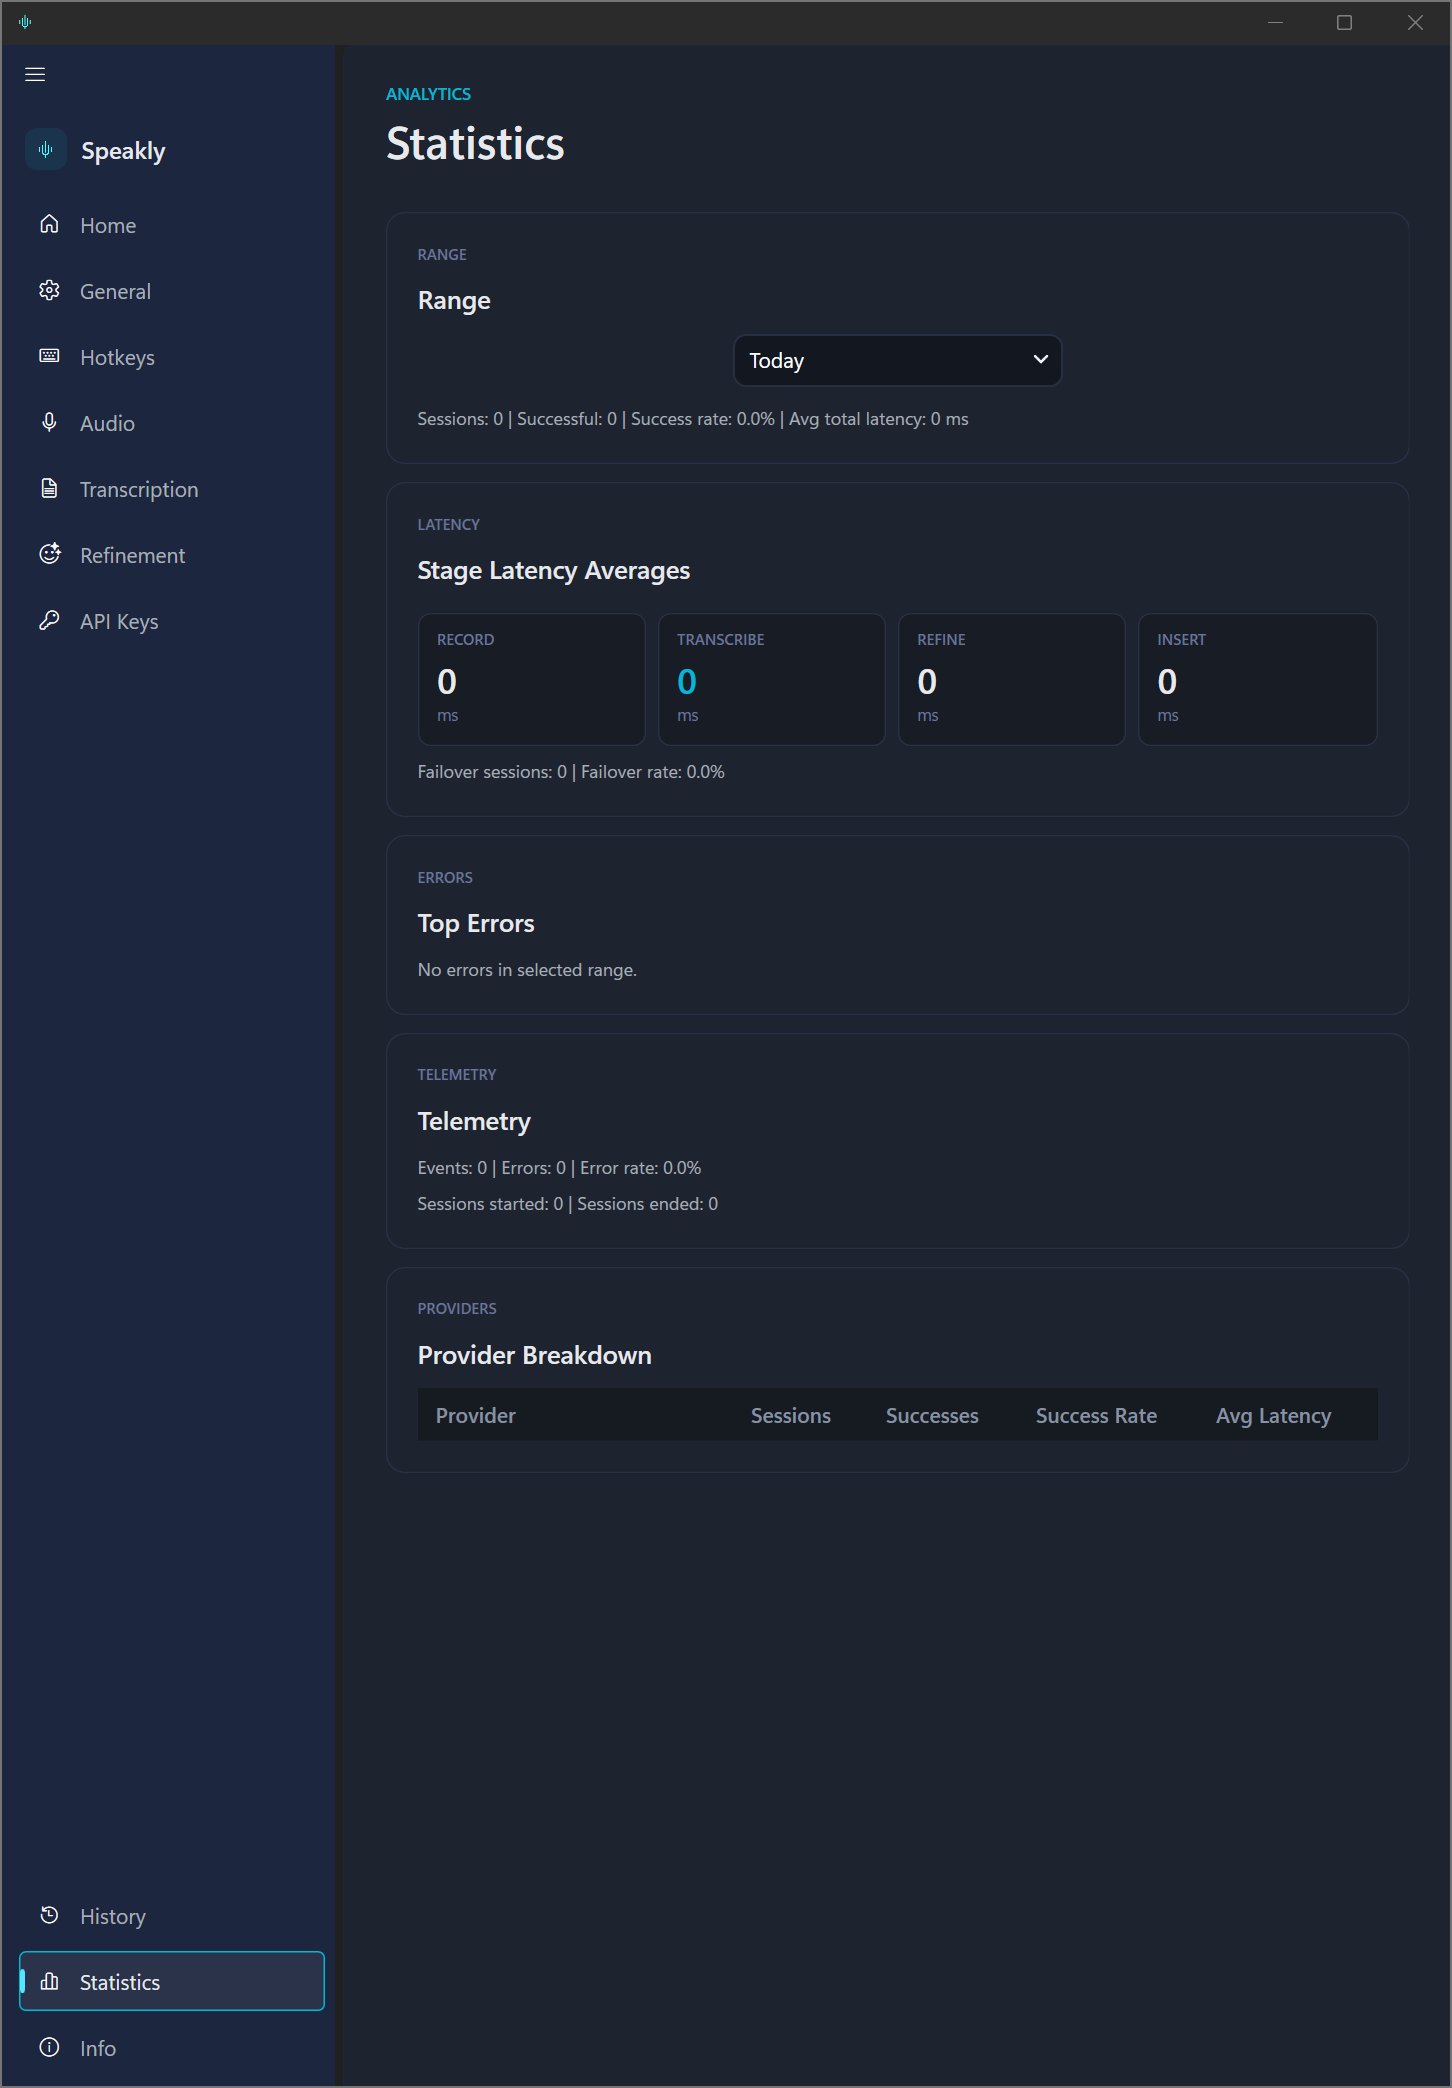
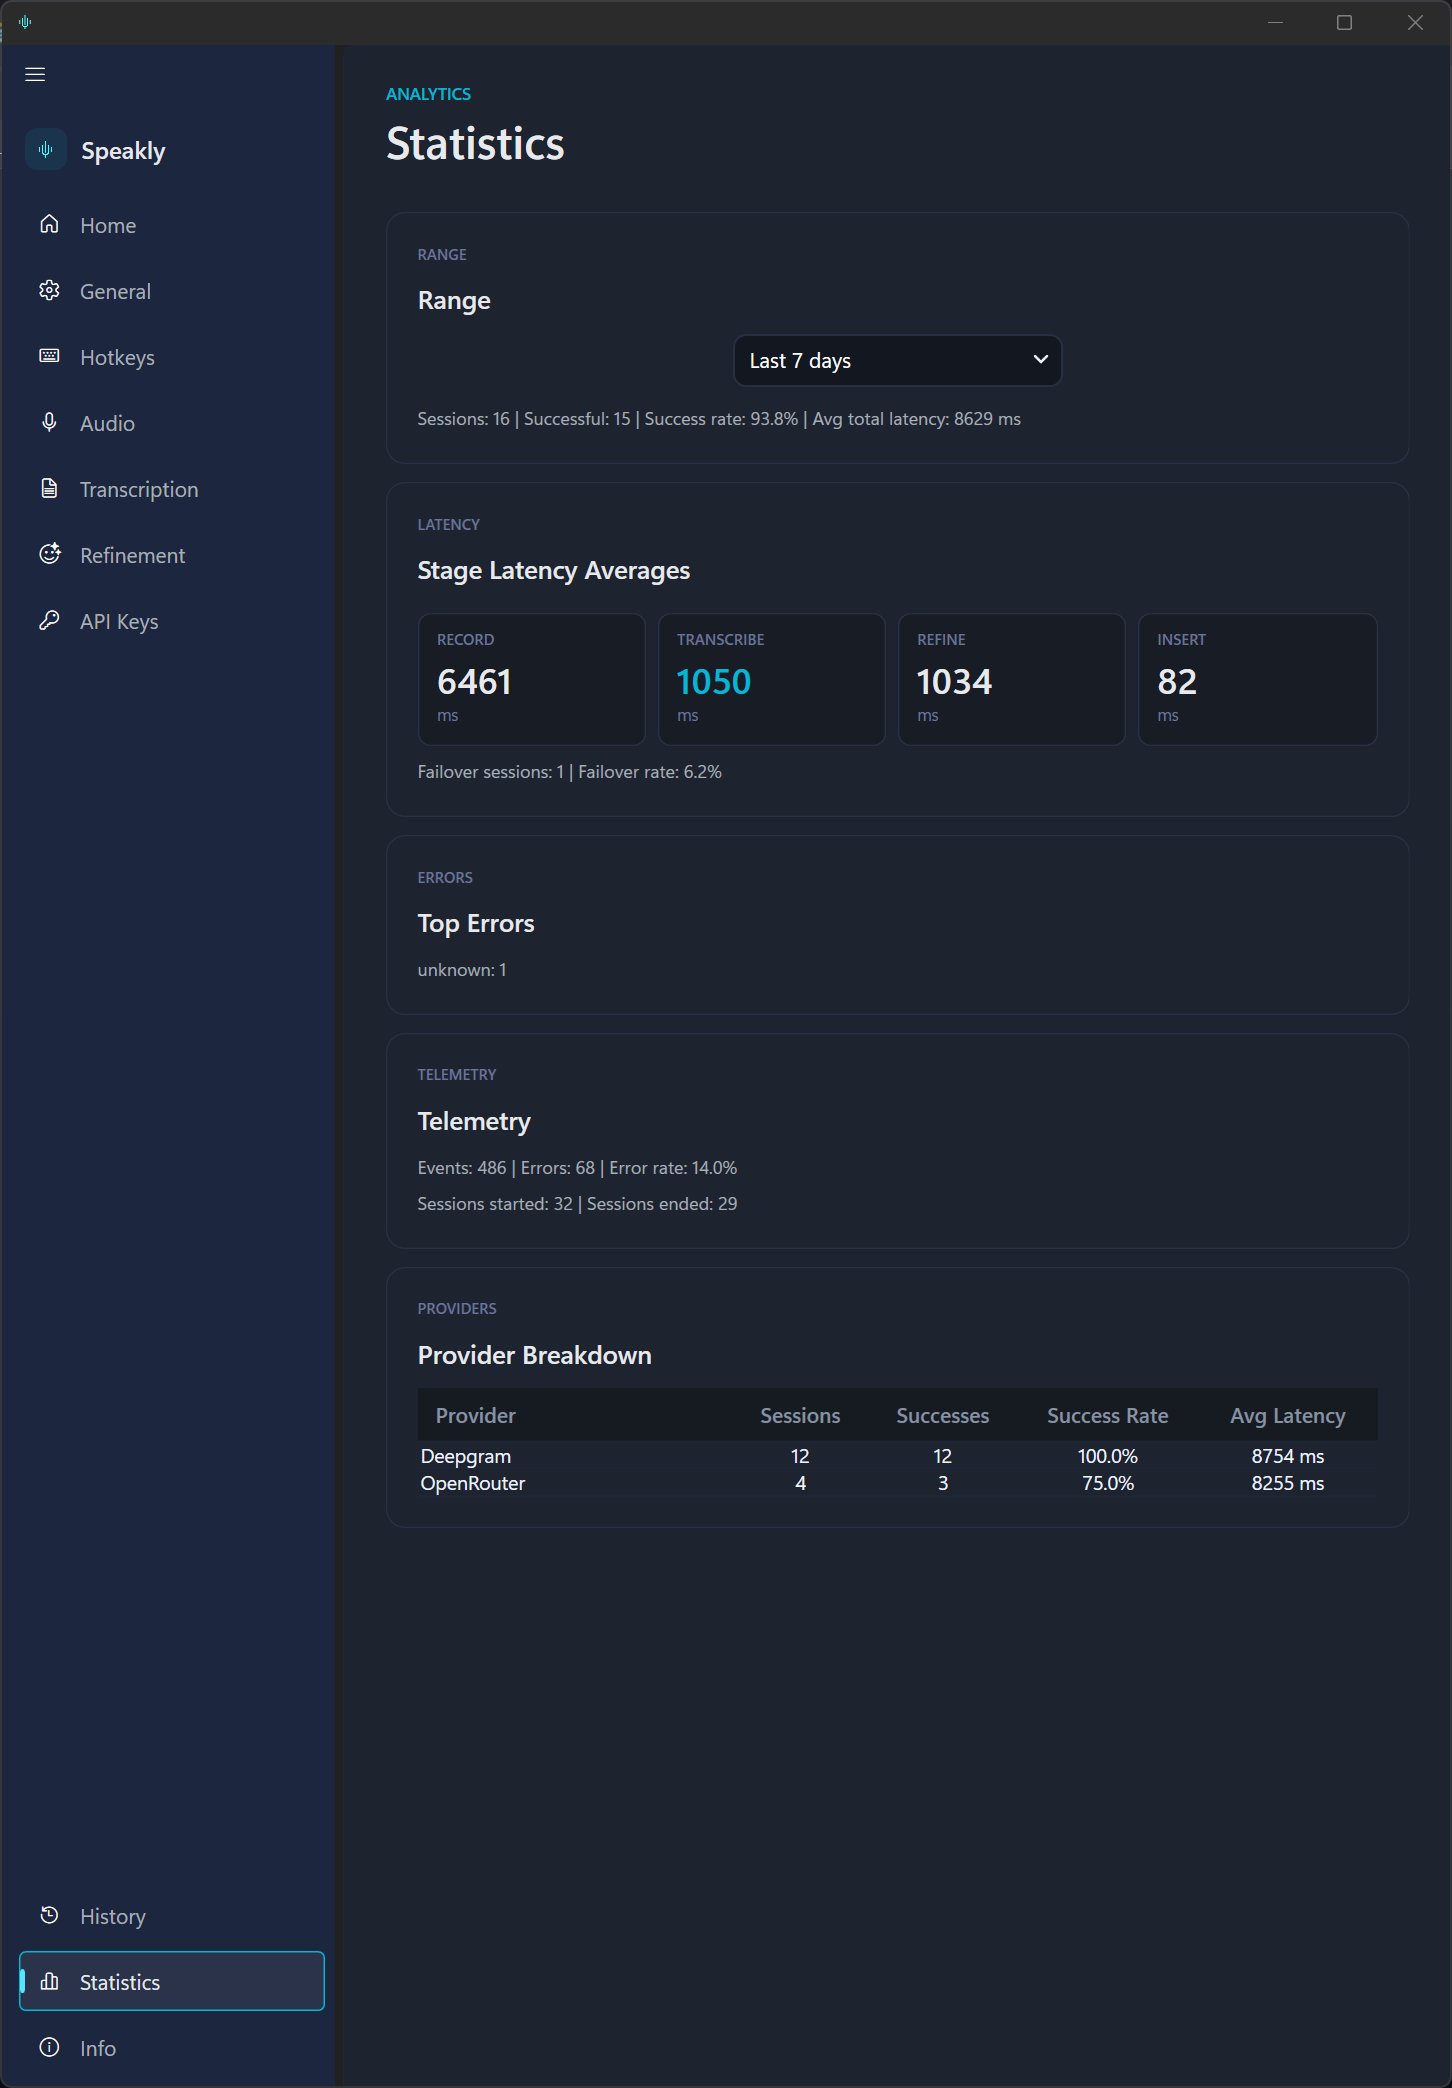
docs: refresh statistics preview and gallery sizing

diff --git a/Pages/StatisticsPage.xaml b/Pages/StatisticsPage.xaml
@@ -4,6 +4,18 @@
              xmlns:ui="http://schemas.lepo.co/wpfui/2022/xaml"
              FontFamily="Segoe UI Variable Text"
              Background="#FF1E2330">
+    <UserControl.Resources>
+        <Style x:Key="StatsCenteredHeaderStyle"
+               TargetType="DataGridColumnHeader"
+               BasedOn="{StaticResource {x:Type DataGridColumnHeader}}">
+            <Setter Property="HorizontalContentAlignment" Value="Center" />
+        </Style>
+
+        <Style x:Key="StatsCenteredCellTextStyle" TargetType="TextBlock">
+            <Setter Property="TextAlignment" Value="Center" />
+            <Setter Property="HorizontalAlignment" Value="Center" />
+        </Style>
+    </UserControl.Resources>
     <ScrollViewer VerticalScrollBarVisibility="Auto" Padding="{StaticResource PagePadding}">
         <StackPanel MaxWidth="860">
             <StackPanel Margin="0,0,0,28">
@@ -100,10 +112,26 @@
                               HeadersVisibility="Column">
                         <DataGrid.Columns>
                             <DataGridTextColumn Header="Provider" Binding="{Binding Provider}" Width="*" />
-                            <DataGridTextColumn Header="Sessions" Binding="{Binding Sessions}" Width="90" />
-                            <DataGridTextColumn Header="Successes" Binding="{Binding Successes}" Width="100" />
-                            <DataGridTextColumn Header="Success Rate" Binding="{Binding SuccessRateText}" Width="120" />
-                            <DataGridTextColumn Header="Avg Latency" Binding="{Binding AvgLatencyText}" Width="120" />
+                            <DataGridTextColumn Header="Sessions"
+                                                Binding="{Binding Sessions}"
+                                                Width="90"
+                                                HeaderStyle="{StaticResource StatsCenteredHeaderStyle}"
+                                                ElementStyle="{StaticResource StatsCenteredCellTextStyle}" />
+                            <DataGridTextColumn Header="Successes"
+                                                Binding="{Binding Successes}"
+                                                Width="100"
+                                                HeaderStyle="{StaticResource StatsCenteredHeaderStyle}"
+                                                ElementStyle="{StaticResource StatsCenteredCellTextStyle}" />
+                            <DataGridTextColumn Header="Success Rate"
+                                                Binding="{Binding SuccessRateText}"
+                                                Width="120"
+                                                HeaderStyle="{StaticResource StatsCenteredHeaderStyle}"
+                                                ElementStyle="{StaticResource StatsCenteredCellTextStyle}" />
+                            <DataGridTextColumn Header="Avg Latency"
+                                                Binding="{Binding AvgLatencyText}"
+                                                Width="120"
+                                                HeaderStyle="{StaticResource StatsCenteredHeaderStyle}"
+                                                ElementStyle="{StaticResource StatsCenteredCellTextStyle}" />
                         </DataGrid.Columns>
                     </DataGrid>
                 </StackPanel>

diff --git a/README.md b/README.md
@@ -88,7 +88,7 @@
       <sub>Floating overlay for status, quick actions, and at-a-glance feedback while dictating.</sub>
     </td>
     <td width="50%" align="center" valign="top">
-      <img src="Resources/README/circle-overlay-midnight-theme.png" alt="Speakly circular overlay" width="100%" />
+      <img src="Resources/README/circle-overlay-midnight-theme.png" alt="Speakly circular overlay" width="72%" />
       <br />
       <sub>Alternate overlay presentation with theme variations for different desktop setups.</sub>
     </td>
